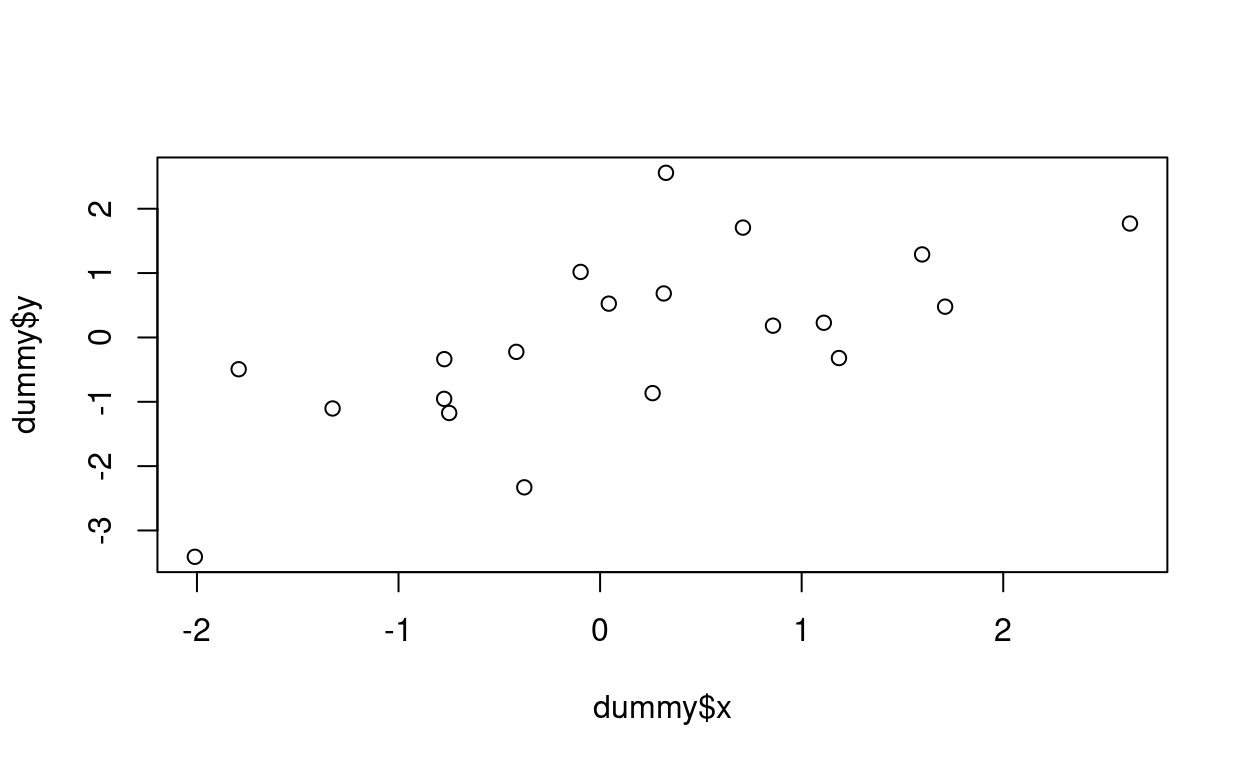
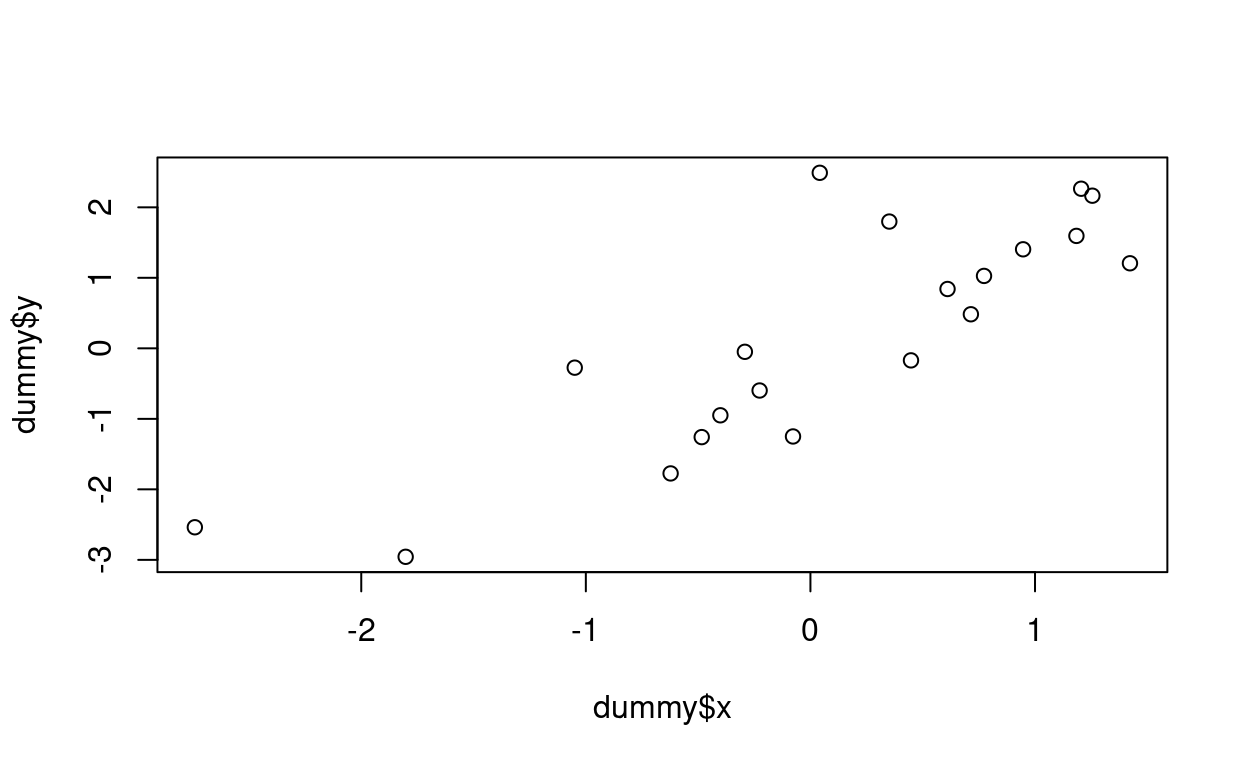
Update tutorial 1 end, more hints

diff --git a/tutorial1/Intro.html b/tutorial1/Intro.html
@@ -487,18 +487,19 @@ x[ c(__, __, __) ]</code></pre>
 <li><p><em>Factors</em> provide compact ways to handle categorical data. See <a href="https://cran.r-project.org/doc/manuals/r-release/R-intro.html#Factors">Factors</a>.</p></li>
 </ul>
 </div>
-<div id="section-a-simple-analysis" class="section level2">
-<h2>A simple analysis</h2>
-<p>To end we show some code following the process for a basic data analysis. Namely</p>
-<ul>
-<li>Get data</li>
-<li>Calculate summary statistics</li>
-<li>Do some plots</li>
-</ul>
+<div id="section-your-first-analysis" class="section level2">
+<h2>Your first analysis</h2>
+<p>To end we develop some code to do a data analysis. This involves</p>
+<ol style="list-style-type: decimal">
+<li>Getting some data</li>
+<li>Using the data to calculate summary statistics</li>
+<li>Looking at the data using some plots</li>
+</ol>
 <div id="section-get-data" class="section level3">
 <h3>Get data</h3>
-<p>The first thing to do in R is to load data. For this tutorial we will use R to make up some data (using computer simulation).</p>
-<p>Our data will be two random normal vectors of x- and y-coordinates where y = x + error.</p>
+<p>The first thing to do in R is to load data. For this tutorial we will use R to make up some data using R itself. We will consider an analysis where there are two continuous variables corresponding the the x and y-axes of a plot. In the example there is a linear relationship between them so y = x + error.</p>
+<p>The following code generates the data. You might wish to skip reading this code when you first run through the tutorial, because it uses some functions that you have not been introduced to.</p>
+<p>The code generates data for the analysis into a <em>data frame</em> that we name <code>dummy</code>. When you run your own analysis you will usually load data from a file instead (introduced in next tutorial).</p>
 <pre class="r"><code># Note: Anything with an hash at the start is interpreted in R as a comment, and does not do anything
 
 # 1. The first data vector are 20 sampes from a standard Normal distribution (mean 0, sd 1)
@@ -508,52 +509,50 @@ myvar1 = rnorm(20)
 myvar2 = myvar1 + rnorm(20)
 
 # 3. Then we can put them into a data frame, which is used to store data in a table (each row is a vector) 
-dummy = data.frame(x=myvar1, y=myvar2)
-
-#4. We can print out the data so you can see it 
-dummy</code></pre>
-<div data-pagedtable="false">
-<script data-pagedtable-source type="application/json">
-{"columns":[{"label":["x"],"name":[1],"type":["dbl"],"align":["right"]},{"label":["y"],"name":[2],"type":["dbl"],"align":["right"]}],"data":[{"1":"0.70869684","2":"1.7070368"},{"1":"0.04316125","2":"0.5253311"},{"1":"-2.01046814","2":"-3.4088441"},{"1":"0.85775739","2":"0.1827861"},{"1":"1.71166815","2":"0.4781568"},{"1":"-0.37602666","2":"-2.3293922"},{"1":"0.31581594","2":"0.6833618"},{"1":"2.62866439","2":"1.7703604"},{"1":"-1.32715219","2":"-1.1040124"},{"1":"-1.79300577","2":"-0.4942393"},{"1":"-0.77366502","2":"-0.9546152"},{"1":"-0.41571051","2":"-0.2240538"},{"1":"0.32671564","2":"2.5585445"},{"1":"1.59752982","2":"1.2901800"},{"1":"0.26055643","2":"-0.8652818"},{"1":"-0.74858033","2":"-1.1740056"},{"1":"-0.77292512","2":"-0.3374007"},{"1":"1.10992665","2":"0.2279928"},{"1":"1.18509244","2":"-0.3201226"},{"1":"-0.09666616","2":"1.0180545"}],"options":{"columns":{"min":{},"max":[10]},"rows":{"min":[10],"max":[10]},"pages":{}}}
-  </script>
-</div>
-<p>(Every time you run this, you’ll get different numbers in your table because a new simulation is run).</p>
+dummy = data.frame(x=myvar1, y=myvar2)</code></pre>
 </div>
 <div id="section-summary-statistics" class="section level3">
 <h3>Summary statistics</h3>
+<p>First we inspect the data</p>
+<pre class="r"><code>dummy</code></pre>
+<div data-pagedtable="false">
+<script data-pagedtable-source type="application/json">
+{"columns":[{"label":["x"],"name":[1],"type":["dbl"],"align":["right"]},{"label":["y"],"name":[2],"type":["dbl"],"align":["right"]}],"data":[{"1":"-1.5756252","2":"-2.3181686"},{"1":"-0.2692003","2":"0.3631514"},{"1":"0.9825409","2":"0.1564728"},{"1":"-0.5323082","2":"-0.5294842"},{"1":"-1.0688582","2":"-0.8149884"},{"1":"-1.9671013","2":"-1.2467164"},{"1":"1.4260421","2":"2.0936584"},{"1":"2.5482731","2":"2.5866511"},{"1":"-2.2572080","2":"-1.9837184"},{"1":"-2.2706938","2":"-1.6386947"},{"1":"0.8015796","2":"-1.6509564"},{"1":"1.0799189","2":"1.3747362"},{"1":"0.4158523","2":"1.0405261"},{"1":"0.8531590","2":"0.1057257"},{"1":"-0.1013772","2":"0.1573061"},{"1":"-0.2876019","2":"-0.2442662"},{"1":"0.9874659","2":"1.5944401"},{"1":"0.3764861","2":"1.1987924"},{"1":"-1.5307964","2":"-1.1542283"},{"1":"0.9553248","2":"0.6324489"}],"options":{"columns":{"min":{},"max":[10]},"rows":{"min":[10],"max":[10]},"pages":{}}}
+  </script>
+</div>
 <p>To get a quick summary of these data R has the useful function <code>summary()</code></p>
 <pre class="r"><code>summary(dummy)</code></pre>
-<pre><code>##        x                 y           
-##  Min.   :-2.0105   Min.   :-3.40884  
-##  1st Qu.:-0.7547   1st Qu.:-0.88762  
-##  Median : 0.1519   Median :-0.02063  
-##  Mean   : 0.1216   Mean   :-0.03851  
-##  3rd Qu.: 0.9208   3rd Qu.: 0.76704  
-##  Max.   : 2.6287   Max.   : 2.55855</code></pre>
+<pre><code>##        x                  y           
+##  Min.   :-2.27069   Min.   :-2.31817  
+##  1st Qu.:-1.18434   1st Qu.:-1.17735  
+##  Median : 0.13755   Median : 0.13110  
+##  Mean   :-0.07171   Mean   :-0.01387  
+##  3rd Qu.: 0.96213   3rd Qu.: 1.08009  
+##  Max.   : 2.54827   Max.   : 2.58665</code></pre>
 <p>This tells us the minimm, maximum, median, mean, 1st quantile (75% of data above this point) and 3rd quantile (25% of data above this point) for our <code>x</code> and <code>y</code> columns, that we made up.</p>
 <p>We can also do this one statistic at a time by runnning the function (e.g. <code>mean()</code>) on a vector of data. To select a column from a dataframe one may use a dollar <code>$</code> following the dataframe name, followed by the column name. For example, to only select <code>x</code> from <code>dummy</code>:</p>
 <pre class="r"><code>#To access each column we use a dollar sign
 #e.g. x
 dummy$x</code></pre>
-<pre><code>##  [1]  0.70869684  0.04316125 -2.01046814  0.85775739  1.71166815 -0.37602666
-##  [7]  0.31581594  2.62866439 -1.32715219 -1.79300577 -0.77366502 -0.41571051
-## [13]  0.32671564  1.59752982  0.26055643 -0.74858033 -0.77292512  1.10992665
-## [19]  1.18509244 -0.09666616</code></pre>
+<pre><code>##  [1] -1.5756252 -0.2692003  0.9825409 -0.5323082 -1.0688582 -1.9671013
+##  [7]  1.4260421  2.5482731 -2.2572080 -2.2706938  0.8015796  1.0799189
+## [13]  0.4158523  0.8531590 -0.1013772 -0.2876019  0.9874659  0.3764861
+## [19] -1.5307964  0.9553248</code></pre>
 <strong>TASK FOR YOU</strong> Print out summary statistics for x only by replacing __
 <div class="tutorial-exercise" data-label="exsummary" data-caption="Code" data-completion="1" data-diagnostics="1" data-startover="1" data-lines="0">
 <pre class="text"><code>summary(dummy__x)</code></pre>
 <script type="application/json" data-opts-chunk="1">{"fig.width":6.5,"fig.height":4,"fig.retina":2,"fig.align":"default","fig.keep":"high","fig.show":"asis","out.width":624,"warning":true,"error":false,"message":true,"exercise.df_print":"paged","exercise.checker":"NULL"}</script>
 </div>
-<div class="tutorial-exercise-support" data-label="exsummary-hint" data-caption="Code" data-completion="1" data-diagnostics="1" data-startover="1" data-lines="0">
-<pre class="text"><code>We want to pass `dummy$x` to the function `summary()` </code></pre>
+<div id="section-exsummary-hint">
+<p><strong>Hint:</strong> Pass <code>dummy$x</code> to the function <code>summary()</code></p>
 </div>
 <strong>TASK FOR YOU</strong> Calculate the mean of the first 10 values of <code>y</code>
 <div class="tutorial-exercise" data-label="exsummary2" data-caption="Code" data-completion="1" data-diagnostics="1" data-startover="1" data-lines="0">
 <pre class="text"><code>mean(dummy$__[__])</code></pre>
 <script type="application/json" data-opts-chunk="1">{"fig.width":6.5,"fig.height":4,"fig.retina":2,"fig.align":"default","fig.keep":"high","fig.show":"asis","out.width":624,"warning":true,"error":false,"message":true,"exercise.df_print":"paged","exercise.checker":"NULL"}</script>
 </div>
-<div class="tutorial-exercise-support" data-label="exsummary2-hint" data-caption="Code" data-completion="1" data-diagnostics="1" data-startover="1" data-lines="0">
-<pre class="text"><code>Review the material in index vectors for what goes inside [__] </code></pre>
+<div id="section-exsummary2-hint">
+<p><strong>Hint:</strong> Extend the previous task by using <code>y</code> in place of <code>x</code>. You might wish to review the material in index vectors for what goes inside [__]: here it is <code>1:10</code>.</p>
 </div>
 <p>We may also calculate correlation coefficients between x and y as follows.</p>
 <pre class="r"><code>cor.test(dummy$x, dummy$y)</code></pre>
@@ -561,35 +560,41 @@ dummy$x</code></pre>
 ##  Pearson&#39;s product-moment correlation
 ## 
 ## data:  dummy$x and dummy$y
-## t = 3.8398, df = 18, p-value = 0.0012
+## t = 6.5902, df = 18, p-value = 3.443e-06
 ## alternative hypothesis: true correlation is not equal to 0
 ## 95 percent confidence interval:
-##  0.3250195 0.8585943
+##  0.6343254 0.9353269
 ## sample estimates:
 ##       cor 
-## 0.6710278</code></pre>
+## 0.8408248</code></pre>
 <p><strong>TASK FOR YOU</strong> Calculate the Spearman correlation between x and y by typing “spearman” into the method argument</p>
 <div class="tutorial-exercise" data-label="spearman" data-caption="Code" data-completion="1" data-diagnostics="1" data-startover="1" data-lines="0">
 <pre class="text"><code>cor.test(dummy$x, dummy$y, method=__)</code></pre>
 <script type="application/json" data-opts-chunk="1">{"fig.width":6.5,"fig.height":4,"fig.retina":2,"fig.align":"default","fig.keep":"high","fig.show":"asis","out.width":624,"warning":true,"error":false,"message":true,"exercise.df_print":"paged","exercise.checker":"NULL"}</script>
+</div>
+<div id="section-spearman-hint">
+<p><strong>Hint:</strong> Don’t forget the quotation marks</p>
 </div>
 <p><strong>TASK FOR YOU</strong> Calculate Pearson correlation between x and itself (should be 1)</p>
 <div class="tutorial-exercise" data-label="pearson-self" data-caption="Code" data-completion="1" data-diagnostics="1" data-startover="1" data-lines="0">
 <pre class="text"><code>cor.test(dummy__, dummy__)</code></pre>
 <script type="application/json" data-opts-chunk="1">{"fig.width":6.5,"fig.height":4,"fig.retina":2,"fig.align":"default","fig.keep":"high","fig.show":"asis","out.width":624,"warning":true,"error":false,"message":true,"exercise.df_print":"paged","exercise.checker":"NULL"}</script>
 </div>
+<div id="section-pearson-self-hint">
+<p><strong>Hint:</strong> Use a dollar sign <code>$</code> to choose the column. Both should be <code>x</code>.</p>
+</div>
 </div>
 <div id="section-plots" class="section level3">
 <h3>Plots</h3>
-<p>We will next show some simple R plots (in time you might wish to use <code>ggplot2</code>, which has greater functionality but has a steeper learning curve).</p>
+<p>We will next show some basic R plots (in time you might wish to use the library <code>ggplot2</code> for plots).</p>
 <p>First, we’ll plot x against y in a scatter plot.</p>
 <pre class="r"><code>##This is a standard R scatterplot
 plot(dummy$x, dummy$y)</code></pre>
-<p><img src="Intro_files/figure-html/unnamed-chunk-6-1.png" width="624" /></p>
+<p><img src="Intro_files/figure-html/unnamed-chunk-7-1.png" width="624" /></p>
 <p>To add more and customise the plot we can use other arguments to the function <code>plot()</code>. Below adds some labels to x, y axes, and a title.</p>
 <pre class="r"><code>##This is a standard R scatterplot, but now we&#39;ve added some labels to the plot
 plot(dummy$x, dummy$y, xlab=&quot;TEMPERATURE&quot;, ylab=&quot;CONSUMPTION OF CHOCOLATE ICE CREAM&quot;, main=&quot;I love ice cream when it is hot&quot;)</code></pre>
-<p><img src="Intro_files/figure-html/unnamed-chunk-7-1.png" width="624" /></p>
+<p><img src="Intro_files/figure-html/unnamed-chunk-8-1.png" width="624" /></p>
 <p>You will often wish to save the chart and put it into a report. To do this the recipe is</p>
 <ul>
 <li>Open up the file writer. If you want to write to a PDF then the function is <code>pdf()</code>. If you want to write to a PNG it is <code>png()</code>; others include <code>jpeg()</code>, <code>tiff()</code>, <code>eps()</code>.</li>
@@ -597,14 +602,17 @@ plot(dummy$x, dummy$y, xlab=&quot;TEMPERATURE&quot;, ylab=&quot;CONSUMPTION OF C
 <li>Write the file by closing the connection to the output file with <code>dev.off()</code>.</li>
 </ul>
 <p>For example, the following code follows this to write the above chart to a pdf file called <code>myplot.pdf</code> in a directory called <code>charts</code>.</p>
-<pre class="r"><code>pdf(&quot;charts/myplot.pdf&quot;)
-plot(dummy$x, dummy$y, xlab=&quot;TEMPERATURE&quot;, ylab=&quot;CONSUMPTION OF CHOCOLATE ICE CREAM&quot;, main=&quot;I love ice cream when it is hot&quot;)
-dev.off()</code></pre>
+<pre class="r"><code>pdf(&quot;charts/myplot.pdf&quot;) #open up file writer for pdf
+plot(dummy$x, dummy$y, xlab=&quot;TEMPERATURE&quot;, ylab=&quot;CONSUMPTION OF CHOCOLATE ICE CREAM&quot;, main=&quot;I love ice cream when it is hot&quot;) # plot command
+dev.off() #write the file</code></pre>
 <p>So now you know how to produce a simple scatter plot in R, and save it.</p>
 <strong>TASK FOR YOU</strong> Reverse the axes - plot <code>x</code> on the y-axis and <code>y</code> on the x-axis. Add some different labels (make them up)
 <div class="tutorial-exercise" data-label="plot-example" data-caption="Code" data-completion="1" data-diagnostics="1" data-startover="1" data-lines="0">
 <pre class="text"><code>plot(dummy$__, dummy$__, xlab = __, ylab = __, main = __ )</code></pre>
 <script type="application/json" data-opts-chunk="1">{"fig.width":6.5,"fig.height":4,"fig.retina":2,"fig.align":"default","fig.keep":"high","fig.show":"asis","out.width":624,"warning":true,"error":false,"message":true,"exercise.df_print":"paged","exercise.checker":"NULL"}</script>
+</div>
+<div id="section-plot-example-hint">
+<p><strong>Hint:</strong> The first argument should be <code>y</code>, the second <code>x</code>. Don’t forget quotation signs for <code>xlab</code>, <code>ylab</code> and <code>main</code>. If you want to leave it blank use <code>=""</code>.</p>
 </div>
 </div>
 </div>
